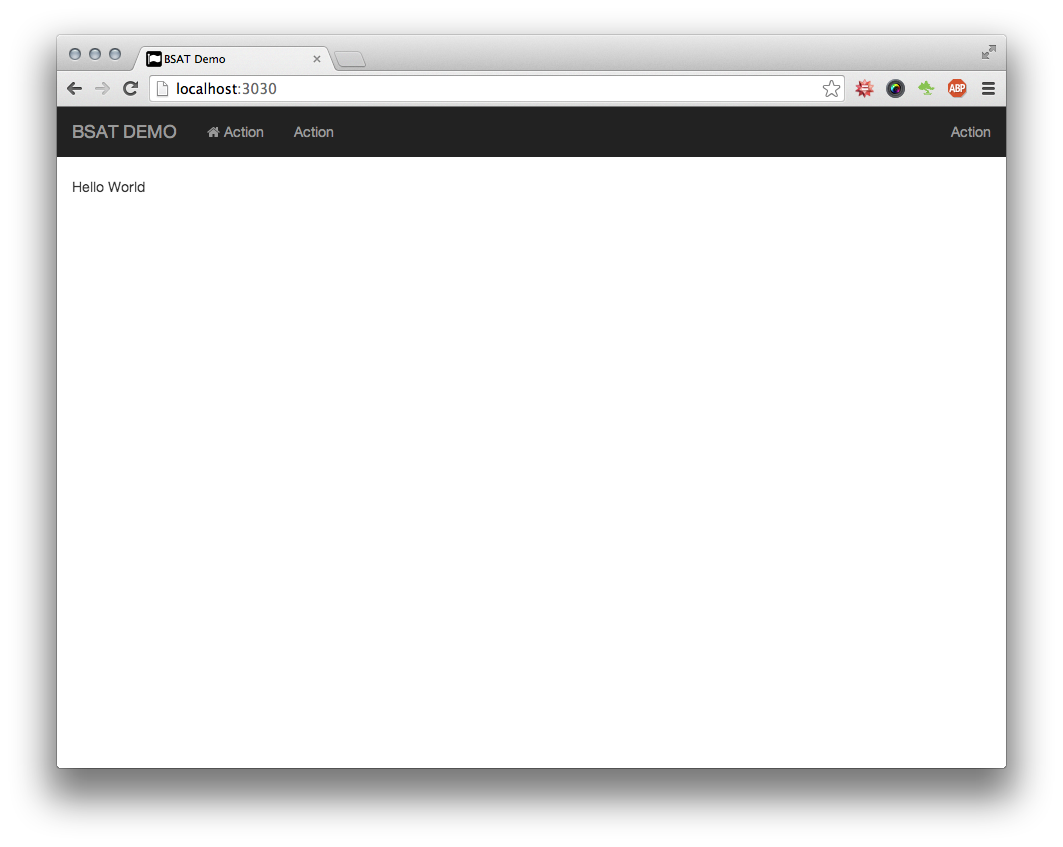
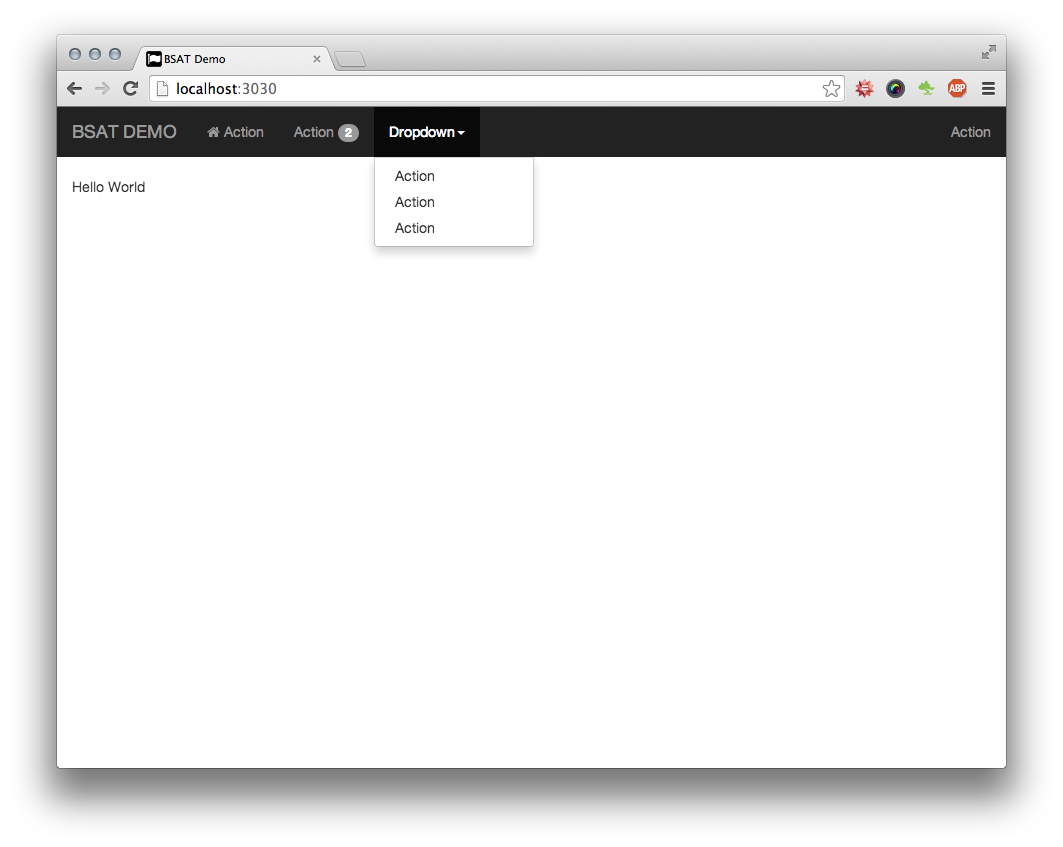
Update Readme.

Changed region(s): [[0.3104, 0.1228, 0.4967, 0.307]]

diff --git a/README.md b/README.md
@@ -142,7 +142,10 @@ is called `bsat_navbar`. It accepts one argument to set the side `:left` or `:ri
 - bsat_navbar(:left) do |navbar|
   - navbar.link 'Action', '#', icon: 'home'
   - navbar.link 'Action', '#', badge: 2
-  - navbar.link 'Action', '#'
+  - navbar.dropdown 'Dropdown' do |dropdown|
+    - dropdown.link 'Action', '#'
+    - dropdown.link 'Action', '#'
+    - dropdown.link 'Action', '#'
 
 - bsat_navbar(:right) do |navbar|
   - navbar.link 'Action', '#'
